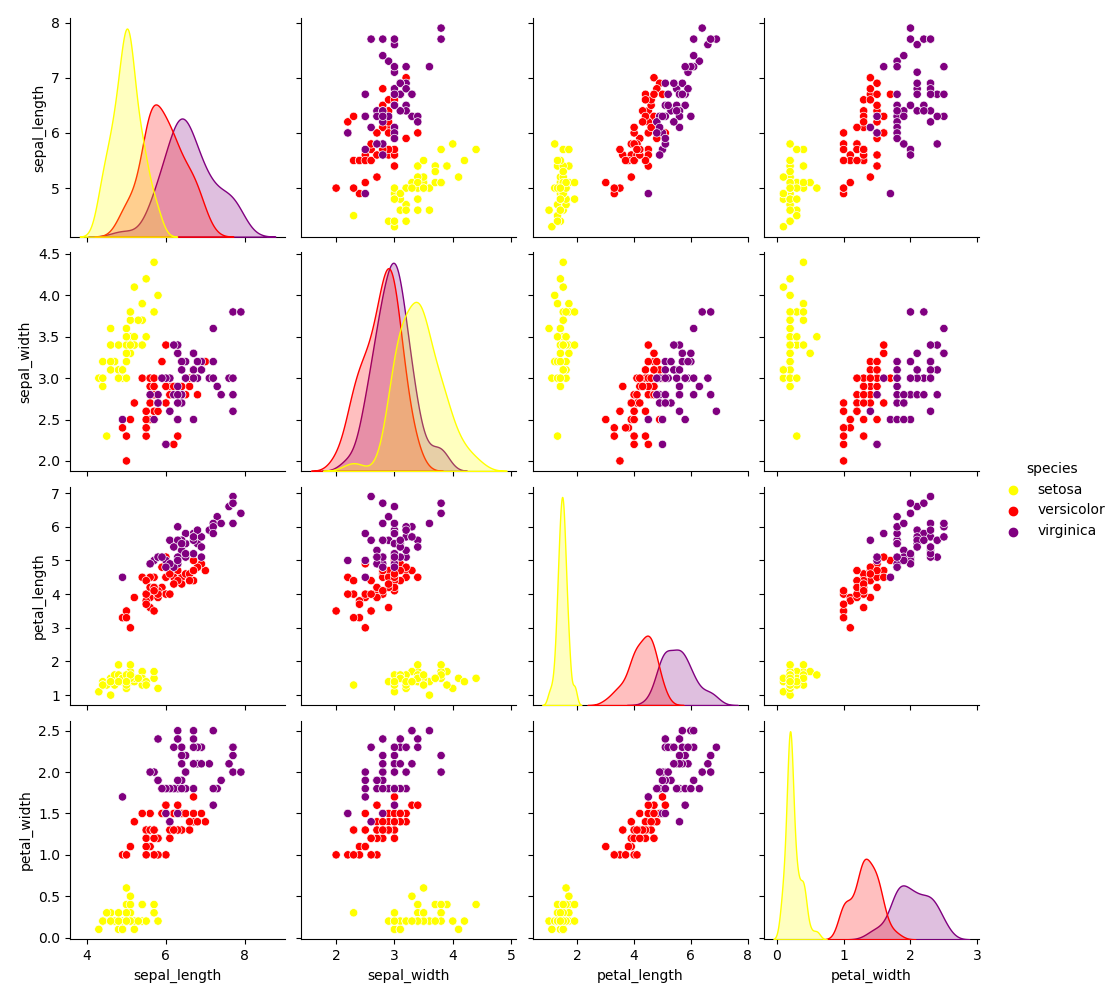
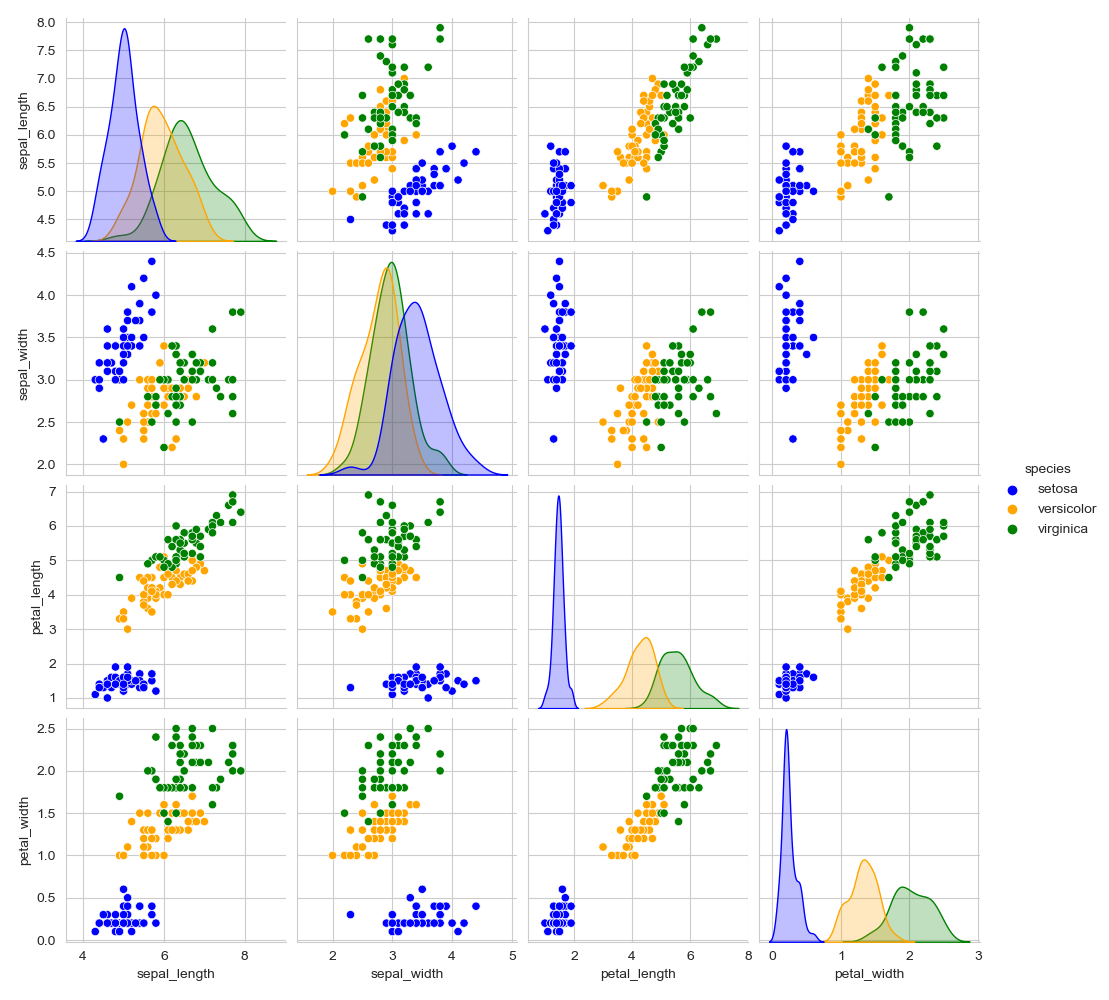
Iris Data Set

diff --git a/Analysis.py b/Analysis.py
@@ -1,9 +1,4 @@
 # Programming and Scripting Final Project - 2022
-
-# This project concerns the well-known Fisher’s Iris data set. You must research the data set and write documentation and code to investigate it.
-# The programme must output a summary of each variable to a single text file, Save a histogram of each variable to png files and output a scatterplot of each pair of variables. 
-# Perform any other analysis you think is appropriate. 
-
 # Author: Jamie Tohall
 
 
@@ -26,8 +21,7 @@ Irisdata = pd.read_csv("Iris.csv")
 # I created a text file titled 'Summary of Variables', and opened it in a write format. 
 
 with open ("Summary_of_Variables", "w") as f:
-   data = f.write ("\nSummary of Variables\n\n")
-
+   f.write
   
 
 ################# Preprocessing the Data Set #################
@@ -36,27 +30,22 @@ with open ("Summary_of_Variables", "w") as f:
 
 # This will return the number of lines and columns in the data set table. Result is 150 lines and 5 columns (150,5)
 print (Irisdata.shape, file = open ("Summary_of_Variables", "w"))
-print (' ') # After each command I printed a space, to make the final output look neater and easier to read.
+ # After each command I printed a space, to make the final output look neater and easier to read.
 
 # Will print the top 5 lines of the table, including the headers. The default value of the function is 5 lines of no exact command is given and I didn't specify a number.
 print (Irisdata.head(), file = open ("Summary_of_Variables", "a"))
-print (' ')
 
 # Similarly, I will also print a 15 line sample of the data, this will print 15 random lines.
 print (Irisdata.sample(15), file = open ("Summary_of_Variables", "a"))
-print ('')
 
 # The following command will output all the columns from the dataset in list form.
 print (Irisdata.columns, file = open ("Summary_of_Variables", "a"))
-print ('')
 
 # This will print a statistical insight of each of the four variable in the Data set including the mean values, standard deviation, minimum values and maximum values.
 print (Irisdata.describe(), file = open ("Summary_of_Variables", "a"))
-print ('')
 
 # I then checked the balance of the data input, counting how many times each species was counted.
 print (Irisdata["species"].value_counts(), file = open("Summary_of_Variables", "a"))
-print ('')
 
 
 ################# Data Analysis #################
@@ -105,32 +94,56 @@ plt.ylabel("Count")
 plt.savefig ("Histogram - Petal Length for all Species")
 
 
+################# Overlapping Histograms  #################
 
-################## Scatterplot Matrix #################
-sns.pairplot(Irisdata, hue= "species", markers=["o","o","o"], palette=["yellow","red","purple"])
-plt.savefig("scatterplot Matrix")
-
-################## Scatterplots #################
 sns.FacetGrid(Irisdata, hue="species", height=5)\
    .map(sns.distplot, "sepal_length")\
-    .add_legend()
+   .add_legend()
 plt.title ("Sepal length")
-plt.savefig("Sepal Length")
+plt.savefig("Overlapping Histogram - Sepal Length")
 
 sns.FacetGrid(Irisdata, hue="species", height=5)\
    .map(sns.distplot, "sepal_width")\
    .add_legend();
 plt.title ("Sepal Width")
-plt.savefig("Sepal Width")
+plt.savefig("Overlapping Histogram - Sepal Width")
 
 sns.FacetGrid(Irisdata, hue="species", height=5)\
    .map(sns.distplot, "petal_length")\
    .add_legend();
 plt.title ("Petal Length")
-plt.savefig("Petal Length")
+plt.savefig("Overlapping Histogram - Petal Length")
 
 sns.FacetGrid(Irisdata, hue="species", height=5)\
    .map(sns.distplot, "petal_width")\
    .add_legend();
 plt.title ("Petal Width")
-plt.savefig("Petal Width")
+plt.savefig("Overlapping Histogram - Petal Width")
+
+
+################## Scatterplots #################
+
+plt.figure (figsize=(10,10),dpi=200)
+sns.set_style("whitegrid")
+sns.scatterplot(x='sepal_length', y='sepal_width',data= Irisdata, hue='species')
+plt.savefig ("Scatterplot - Sepal Length v Sepal Width")
+
+plt.figure (figsize=(10,10),dpi=200)
+sns.set_style("whitegrid")
+sns.scatterplot(x='petal_length', y='petal_width',data= Irisdata, hue='species')
+plt.savefig ("Scatterplot - Petal Length v Petal Width")
+
+plt.figure (figsize=(10,10),dpi=200)
+sns.set_style("whitegrid")
+sns.scatterplot(x='sepal_length', y='petal_width',data= Irisdata, hue='species')
+plt.savefig ("Scatterplot - Sepal Length v Petal Width")
+
+plt.figure (figsize=(10,10),dpi=200)
+sns.set_style("whitegrid")
+sns.scatterplot(x='petal_length', y='sepal_width',data= Irisdata, hue='species')
+plt.savefig ("Scatterplot - Petal Length v Sepal Width")
+
+################## Scatterplot Matrix #################
+
+sns.pairplot(Irisdata, hue= "species", markers=["o","o","o"], palette=["blue","orange","green"])
+plt.savefig("Scatterplot Matrix")
